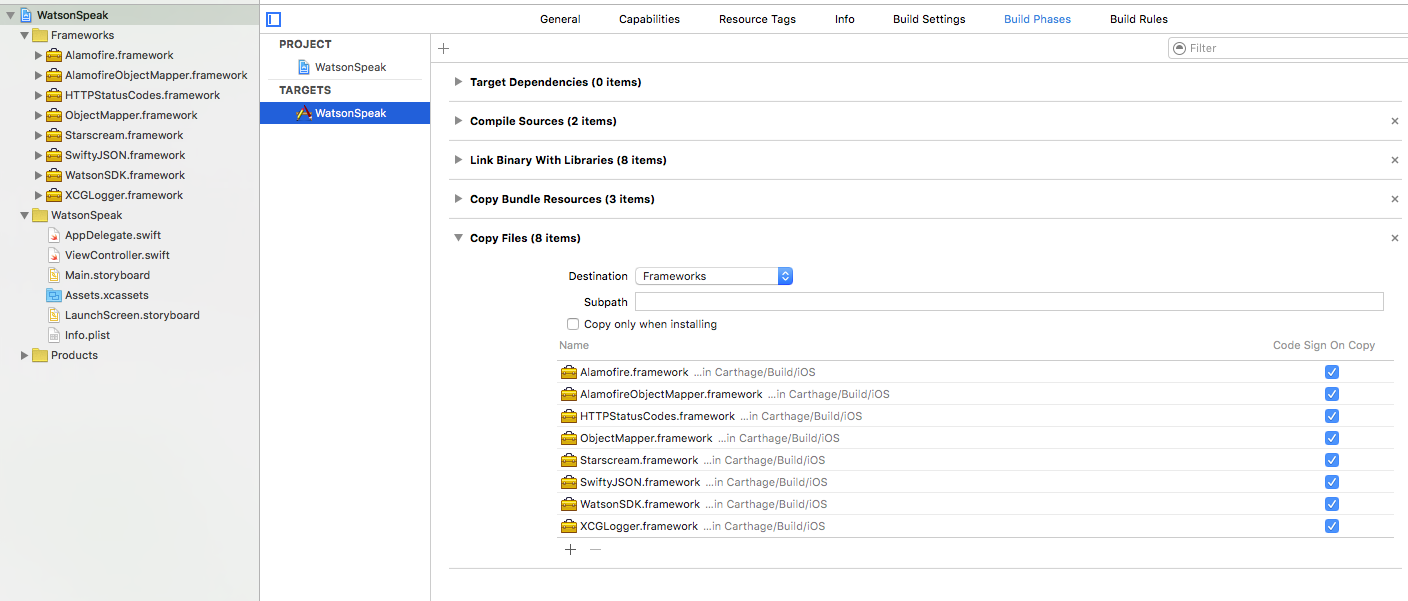
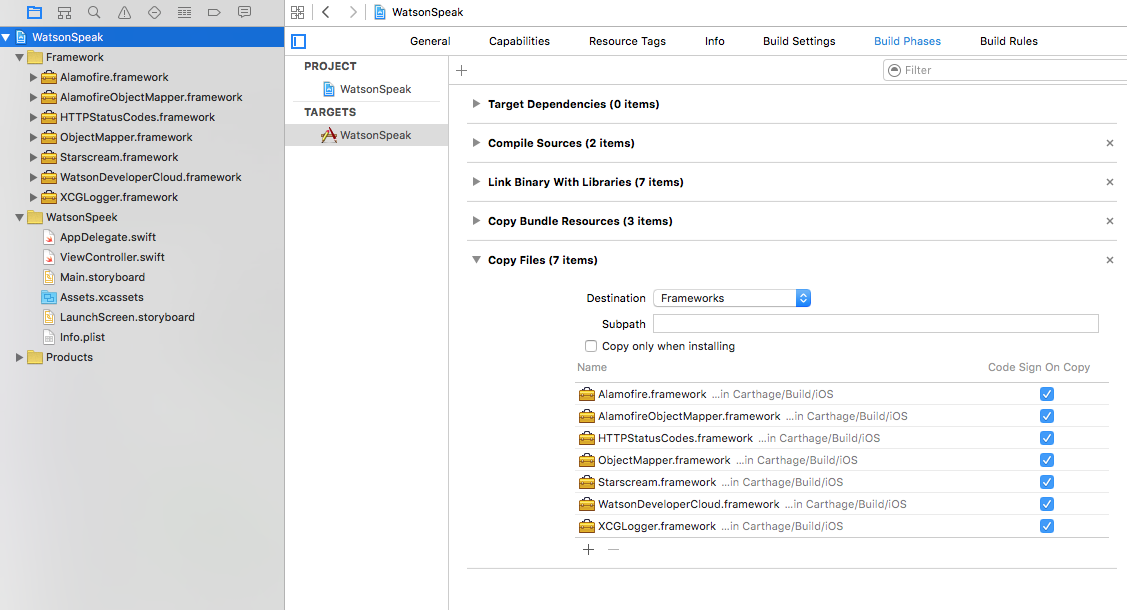
update text and images for quick start guide

Changed region(s): [[0.0, 0.0, 1.0, 1.0], [0.3727, 0.4193, 0.9938, 0.8985], [0.4348, 0.9285, 0.9938, 0.9584]]

diff --git a/Quickstart.md b/Quickstart.md
@@ -23,16 +23,8 @@ In addition, this quick guide uses Carthage to fetch necessary depedencies that 
 3) Create a file called "Cartfile" in the root directory of your project and put the following inside the file:
 
 ```
-        # cartfile contents
-        github "SwiftyJSON/SwiftyJSON" == 2.3.1
-        github "Alamofire/Alamofire" == 3.1.2
-        github "DaveWoodCom/XCGLogger" == 3.1.1
-        github "Hearst-DD/ObjectMapper" == 1.0.1
-        github "rhodgkins/SwiftHTTPStatusCodes" == 2.0.1
-        github "tristanhimmelman/AlamofireObjectMapper" == 2.1.0
-        github "Quick/Nimble" == 3.0.0
-        github "daltoniam/Starscream" == 1.0.2
-        github "https://github.com/IBM-MIL/Watson-iOS-SDK"
+# cartfile contents
+github "https://github.com/watson-developer-cloud/ios-sdk"
 ```
 
 <img src="./images/cartfile.png" width="400">
@@ -45,9 +37,9 @@ In addition, this quick guide uses Carthage to fetch necessary depedencies that 
 
 <img src="./images/NewGroup.png" width="300">
 
-6) Select all the .framework (Alamofire, AlamofireObjectMapper, HTTPStatusCodes, ObjectMapper, Starscream, XCGLogger) files in the carthage/build/ios/ directory except for **Nimble**. Drag-and-drop those files from Finder into the new "Frameworks" group inside of your project in XCode. When the dialog appears, **make sure** you deselect the option to copy items. This will create a reference to those Framework files without copying them. 
+6) Select all the .framework (Alamofire, AlamofireObjectMapper, HTTPStatusCodes, ObjectMapper, Starscream, XCGLogger) files in the carthage/build/ios/ directory. Drag-and-drop those files from Finder into the new "Frameworks" group inside of your project in XCode. When the dialog appears, **make sure** you deselect the option to copy items. This will create a reference to those Framework files without copying them. 
 
-<img src="./images/frameworksInGroup.png" width="300">
+<img src="./images/frameworksInGroup.png" width="400">
 
 7) In XCode, select your project "WatsonSpeaks", then select your build target. In the "Build Phases" tab, add a new **Copy File Phase**.
 
@@ -57,7 +49,7 @@ In addition, this quick guide uses Carthage to fetch necessary depedencies that 
 
 <img src="./images/AddedCopyFiles.png" width="600">
 
-8) Open your ViewController class and add **import WatsonSDK** under the import of UIKit.
+8) Open your ViewController class and add **import WatsonDeveloperCloud** under the import of UIKit.
 
 9) Add the code below to the ***viewDidLoad*** method in the ViewController class:
 
@@ -70,8 +62,7 @@ In addition, this quick guide uses Carthage to fetch necessary depedencies that 
 
         super.viewDidLoad()
         
-        let tts = TextToSpeech()
-        tts.setUsernameAndPassword("YOUR TTS USERNAME", password: "YOUR TTS PASSWORD")
+        let tts = TextToSpeech(username: "YOUR TTS USERNAME", password: "YOUR TTS PASSWORD")
         tts.synthesize("All the problems of the world could be settled easily if men were only willing to think.") { 
 
             data, error in
@@ -128,7 +119,7 @@ In addition, this quick guide uses Carthage to fetch necessary depedencies that 
 
 13) Enjoy!
 
-You can review the different voices and languages [here](https://github.com/IBM-MIL/Watson-iOS-SDK#text-to-speech).
+You can review the different voices and languages [here](https://github.com/watson-developer-cloud/ios-sdk#text-to-speech).
 
-You can download all the source code for the Watson iOS SDK [here](https://github.com/IBM-MIL/Watson-iOS-SDK).
+You can download all the source code for the Watson iOS SDK [here](https://github.com/watson-developer-cloud/ios-sdk).
 
